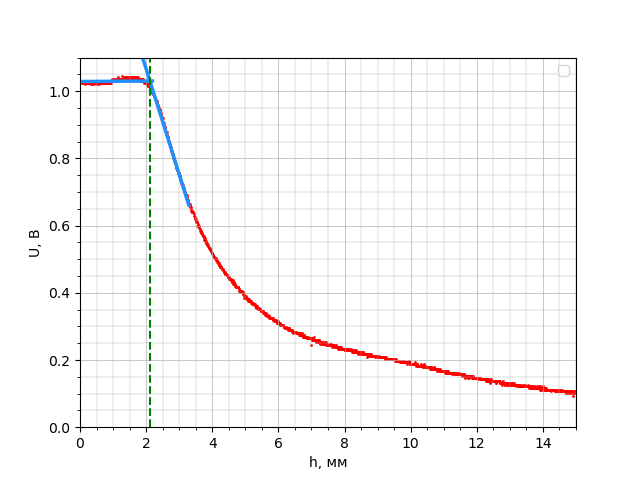
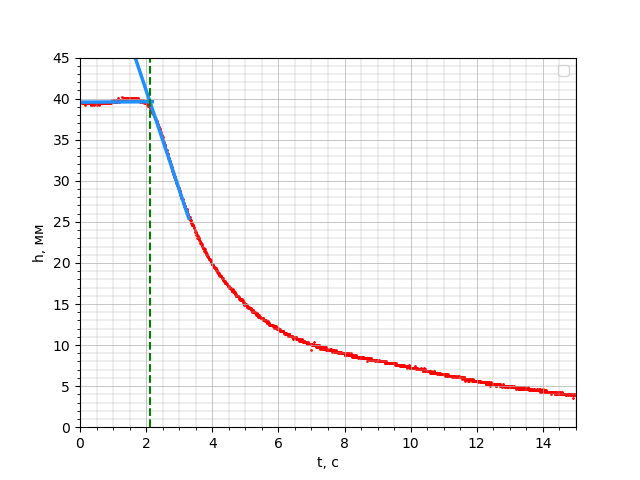
dada

diff --git a/wave/g80.py b/wave/g80.py
@@ -4,13 +4,14 @@ import pandas as pd
 from scipy.optimize import curve_fit
 
 data = np.array(pd.read_csv('/home/l3v/repo/Pelevin-Podmoskovnov-Lukin/wave/w80.csv')[1:])
+data[:, 1] /= 0.026
 
 def linear_func(x, a, b):
     return a * x + b
 
 def lsm(x, y): 
     params, covariance = curve_fit(linear_func, x, y)
-    xs = np.linspace(0, max(x), 1000)
+    xs = np.linspace(0, 2 * max(x), 1000)
     ys = linear_func(xs, params[0], params[1])
     a, b = params
     da, db = np.sqrt(np.diag(covariance))
@@ -19,24 +20,24 @@ def lsm(x, y):
 
 plt.scatter(data[:, 0], data[:, 1], s=1, color='red')
 
-x, y, a, b, da, db = lsm(data[:200, 0], data[:200, 1])
+x, y, a, b, da, db = lsm(data[:90, 0], data[:90, 1])
 
 plt.plot(x, y, linewidth=2.5, c='dodgerblue')
 
-x, y, a, b, da, db = lsm(data[200:300, 0], data[200:300, 1])
+x, y, a, b, da, db = lsm(data[150:160, 0], data[150:160, 1])
 
 plt.plot(x, y, linewidth=2.5, c='dodgerblue')
 
-x0 = np.array([2.12, 2.12])
-y0 = np.array([0, 1.5])
+x0 = np.array([1.32, 1.32])
+y0 = np.array([0, 90])
 
 plt.plot(x0, y0, linestyle='--', c='green')
 
 plt.xlim(0, 15)
-plt.ylim(0, 2.2)
+plt.ylim(0, 90)
 
-plt.xlabel('h, мм')
-plt.ylabel('U, В')
+plt.xlabel('t, с')
+plt.ylabel('h, мм')
 
 
 plt.grid(True, which='major', linestyle='-', linewidth=0.5)
